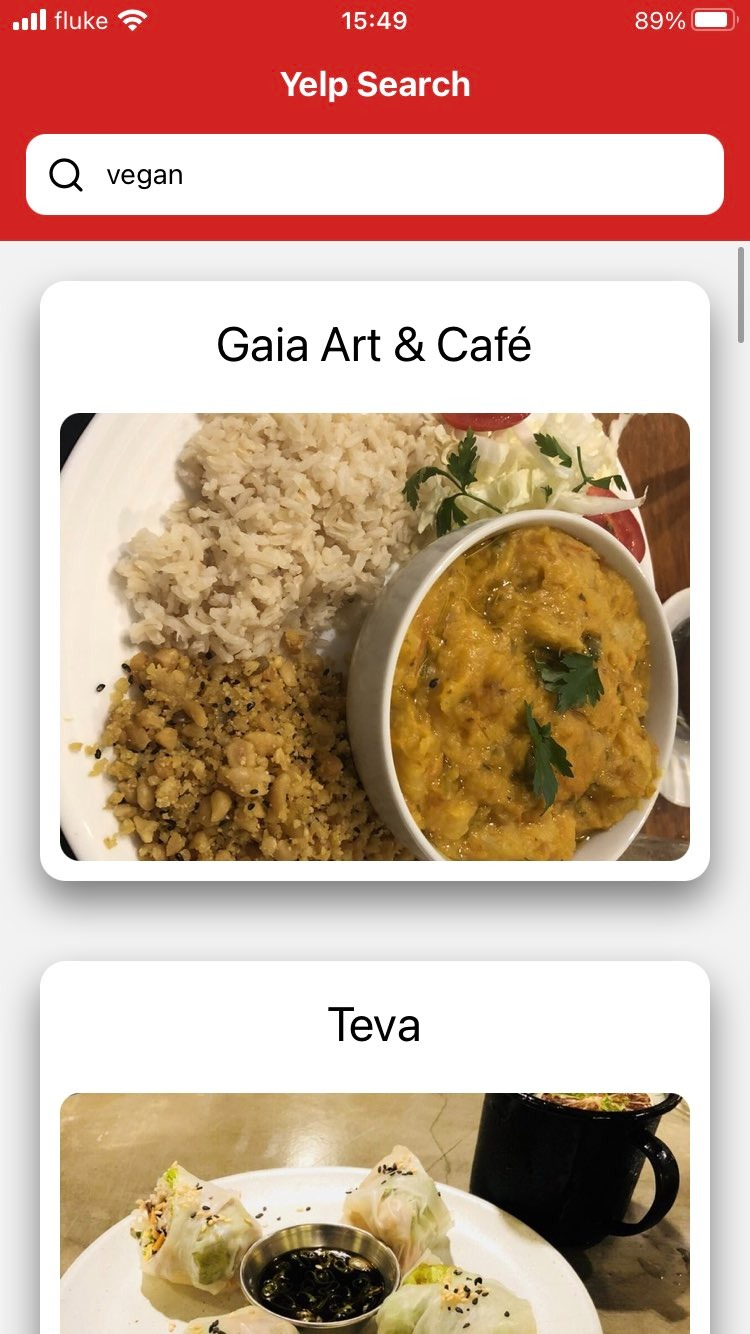
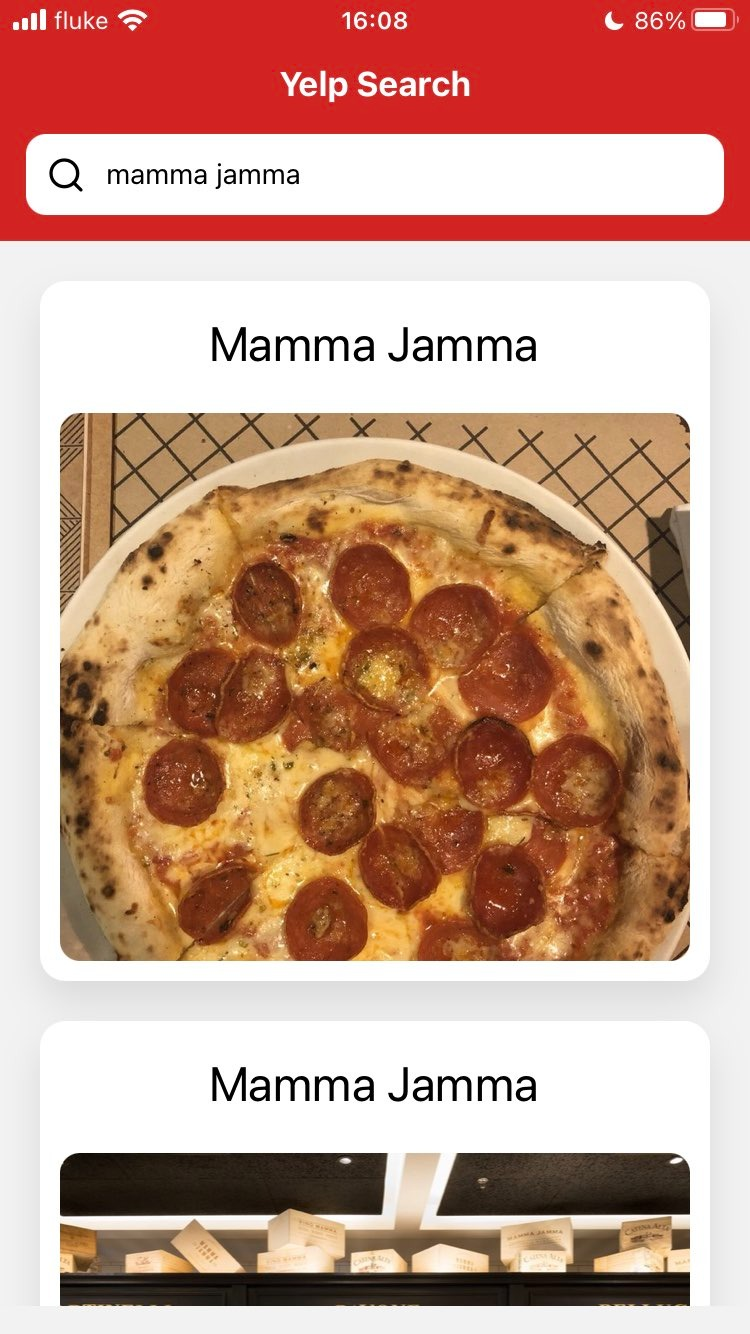
update SearchResultCard styles

diff --git a/src/views/SearchView.tsx b/src/views/SearchView.tsx
@@ -40,7 +40,7 @@ const SearchView = () => {
   );
 
   return (
-    <View>
+    <View style={styles.container}>
       <SearchBar
         searchInput={searchInput}
         onSearchInputChange={setSearchInput}
@@ -59,8 +59,12 @@ const SearchView = () => {
 };
 
 const styles = StyleSheet.create({
+  container: {
+    flex: 1,
+  },
   list: {
     height: '100%',
+    overflow: 'scroll',
   },
 });
 

diff --git a/src/components/SearchResultCard.tsx b/src/components/SearchResultCard.tsx
@@ -22,11 +22,12 @@ const styles = StyleSheet.create({
     flexDirection: 'column',
     alignItems: 'center',
     margin: 20,
-    height: 300,
+    marginBottom: 0,
+    height: 350,
     borderRadius: 13,
     padding: 10,
     shadowColor: 'black',
-    shadowOpacity: 0.5,
+    shadowOpacity: 0.1,
     shadowOffset: {
       height: 10,
       width: 0,
